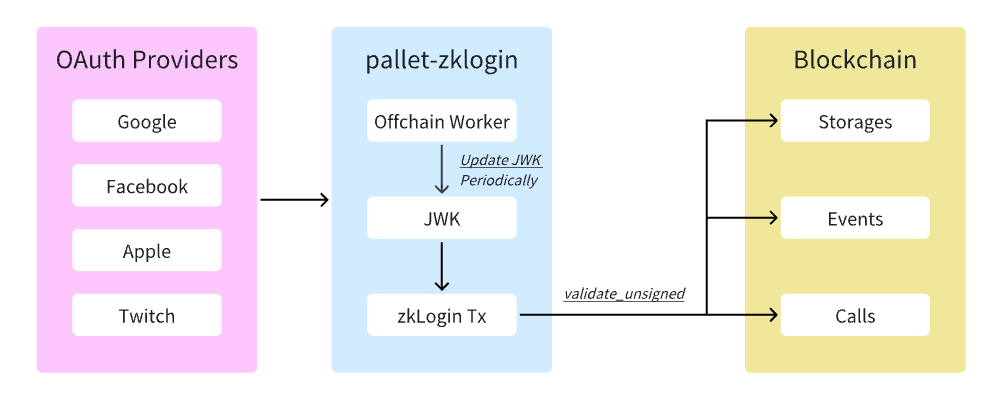
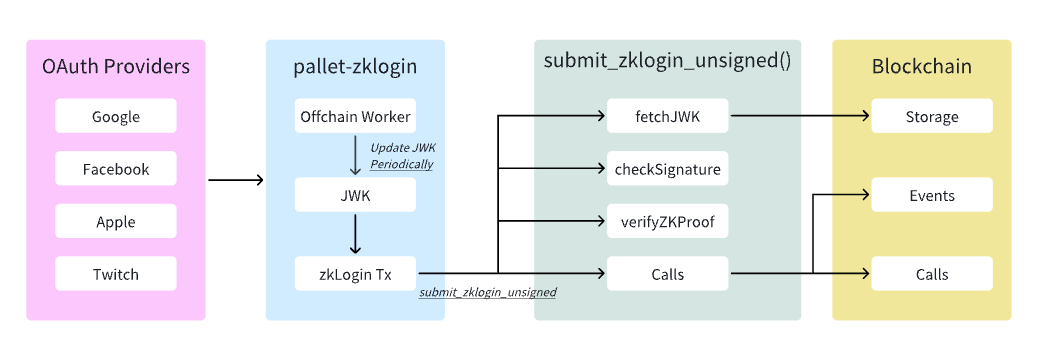
add docs for pallet-zklogin & primitive

diff --git a/kzero-primitive-zklogin.md b/kzero-primitive-zklogin.md
@@ -1,0 +1,217 @@
+# Primitive ZkLogin: Robust, Secure & Efficient Foundation
+
+## Overview
+
+The `primitive/zklogin` module is a core cryptographic primitive that enables zero-knowledge login functionality in the zkLogin process. It provides the foundational infrastructure for secure, privacy-preserving authentication using zero-knowledge proofs and JSON Web Keys (JWKs).
+
+## Core Components
+
+### 1. ZkLogin Material (`ZkMaterial`)
+
+The `ZkMaterial` is the main data structure that encapsulates all necessary information for zkLogin verification:
+
+```rust
+pub struct ZkMaterialV1<Moment> {
+    provider: JwkProvider,        // OAuth provider (Google, GitHub, etc.)
+    kid: Kid,                     // Key ID for JWK lookup
+    inputs: ZkLoginInputs,        // Zero-knowledge proof inputs
+    ephkey_expire_at: Moment,     // Ephemeral key expiration time
+}
+```
+
+**Key Features:**
+- **Versioned Structure**: Supports multiple versions for backward compatibility
+- **Provider Agnostic**: Works with multiple OAuth providers
+- **Time-based Security**: Includes ephemeral key expiration
+- **Proof Integration**: Contains all ZK proof verification data
+
+### 2. JWK Provider System
+
+The module supports multiple OAuth providers through a unified interface:
+
+```rust
+pub enum JwkProvider {
+    Google,    // accounts.google.com
+    Twitch,    // id.twitch.tv
+    Facebook,  // www.facebook.com
+    Kakao,     // kauth.kakao.com
+    Apple,     // appleid.apple.com
+    Slack,     // slack.com
+    Github,    // token.actions.githubusercontent.com
+}
+```
+
+### 3. Zero-Knowledge Proof System
+
+The ZK proof system uses Groth16 protocol with BN254 curve:
+
+```rust
+pub struct ZkLoginProof {
+    a: CircomG1,    // G1 group element A
+    b: CircomG2,    // G2 group element B  
+    c: CircomG1,    // G1 group element C
+}
+```
+
+
+### 4. Poseidon Hash Function
+
+The module implements Poseidon hash for efficient zero-knowledge proof generation:
+
+```rust
+pub fn poseidon_zk_login(inputs: Vec<Fr>) -> Result<Bn254Fr, ZkAuthError>
+```
+
+## Main Methods and Logic
+
+### 1. ZK Login Verification (`verify_zk_login`)
+
+```rust
+pub fn verify_zk_login(
+    &self,
+    eph_pubkey: EphPubKey,
+    address_seed: &AccountId32,
+    jwk: &Jwk,
+) -> ZkAuthResult<()>
+```
+
+**Verification Flow:**
+
+![fn-verify_zk_login](./assets/verify_zk_login.png)
+
+
+**Steps:**
+1. **JWK Modulus Extraction**: Extract the `n` parameter from the JWK
+2. **Hash Calculation**: Compute Poseidon hash of all inputs
+3. **Public Input Preparation**: Prepare inputs for Groth16 verification
+4. **Proof Verification**: Verify the zero-knowledge proof using BN254 curve
+5. **Result Validation**: Return success or detailed error
+
+### 2. JWK Fetching (`fetch_jwks`)
+
+```rust
+pub fn fetch_jwks<E>(
+    &self,
+    fetcher: impl Fn(&str) -> Result<serde_json::Value, E>,
+) -> Result<Vec<Jwk>, JwkProviderErr<E>>
+```
+
+**Method Description**
+
+The fetch_jwks method is responsible for retrieving JSON Web Key Sets (JWKS) from OAuth providers by following the OAuth 2.0 discovery protocol.
+
+1. Gets the well-known endpoint URL:
+- Calls self.well_know_link() to obtain the OAuth provider's discovery endpoint URL (e.g., https://accounts.google.com/.well-known/openid_configuration)
+2. Fetches the well-known document:
+- Uses the provided `fetcher` function to make an HTTP request to the well-known endpoint
+- The fetcher parameter allows for flexible HTTP client implementations
+3. Extracts the JWKS URI
+- Parses the JSON response to find the jwks_uri field
+4. Fetches the actual JWKS:
+- Makes a second HTTP request to the jwks_uri endpoint (e.g., https://www.googleapis.com/oauth2/v3/certs)
+- Retrieves the JSON response containing the actual public keys
+5. Parses and returns the JWKS: 
+- Extracts the keys array from the response
+- Deserializes the JSON into a Vec<Jwk> (vector of JSON Web Keys)
+- Returns the actual JWK objects,
+6. Error handling:
+- Returns `JwkProviderErr::Fetch` if any HTTP request fails
+- Returns `JwkProviderErr::NotFoundJwkUri` if the jwks_uri field is missing
+- Returns `JwkProviderErr::NotFoundJwks` if the keys field is missing
+- Returns `JwkProviderErr::InvalidJson` if the response format is unexpected
+- Returns `JwkProviderErr::InvalidJwks` if JWK parsing fails
+
+### 3. Input Hash Calculation (`calculate_all_inputs_hash`)
+
+```rust
+pub fn calculate_all_inputs_hash(
+    &self,
+    address_seed: U256,
+    eph_pk_bytes: &EphPubKey,
+    modulus: &[u8],
+    max_epoch: u64,
+) -> Result<Bn254Fr, ZkAuthError>
+```
+
+![poseidon_hash](./assets/poseidon_hash.png)
+
+
+## Testing Strategy
+
+### 1. Affine Point Validation Tests
+
+Tests ensure that all cryptographic points are valid on the BN254 curve:
+
+```rust
+#[test]
+fn test_valid_affine_should_be_on_curve() {...}
+fn test_invalid_affine_should_not_be_on_curve() {...}
+fn test_invalid_affine_type_should_be_rejected() {...}
+```
+
+**Test Cases:**
+- ✅ Valid points on curve
+- ✅ Invalid points should be rejected
+- ✅ Invalid type values should be rejected
+
+### 2. Poseidon Hash Tests
+
+Comprehensive testing of the Poseidon hash function:
+
+```rust
+#[test]
+fn test_to_poseidon_hash() {...}
+```
+
+**Test Cases:**
+- ✅ Empty input validation
+- ✅ Single element hashing
+- ✅ Multiple element hashing (1-32 elements)
+- ✅ Edge case handling
+
+### 3. Trait Implementation Tests
+
+Tests for core trait implementations:
+
+```rust
+#[test]
+fn test_replace_sender() {
+    // Test signed extrinsic sender replacement
+    // Test unsigned extrinsic handling
+}
+
+#[test]
+fn test_try_into_eph_pubkey() {
+    // Test AccountId32 conversion
+    // Test MultiAddress conversions
+    // Test invalid address types
+}
+```
+
+### 4. ZK Login Integration Tests
+
+Test the main workflow of the zkLogin verification:
+
+```rust
+#[test]
+fn verify_zklogin() {
+    // Test successful verification
+    // Test with valid JWK and proof
+}
+
+#[test]
+fn zk_login_should_fail_when_jwk_not_match() {
+    // Test JWK mismatch scenarios
+}
+
+#[test]
+fn zk_login_should_fail_when_eph_pubkey_not_match() {
+    // Test ephemeral key mismatch
+}
+```
+
+## Conclusion
+
+The `primitive/zklogin` module provides a robust, secure, and efficient foundation for zero-knowledge login functionality in KZero. Its comprehensive testing strategy, security considerations, and performance optimizations make it suitable for production use in privacy-preserving blockchain applications.
+
+The modular design allows for easy integration with various OAuth providers while maintaining strong cryptographic guarantees through zero-knowledge proofs. The extensive test coverage ensures reliability and correctness across different scenarios and edge cases. 

diff --git a/kzero-pallet-zklogin.md b/kzero-pallet-zklogin.md
@@ -133,9 +133,6 @@ pub fn submit_zklogin_unsigned(
 ) -> DispatchResultWithPostInfo
 ```
 
-**Workflow**:
-![submit_zklogin_unsigned](./assets/submit_zklogin_unsigned.png)
-
 
 ### 3. `submit_jwks_unsigned`
 **Purpose**: Updates JWK (JSON Web Key) sets from OAuth providers via offchain worker
@@ -238,7 +235,7 @@ Supported providers and their JWK endpoints:
 
 **What it tests**:
 - Test externalities are properly set up
-- ZkLogin address has expected initial balance (1000)
+- ZkLogin address has expected initial balance
 - Storage items are initialized with default values
 - Pallet can be accessed and queried
 
@@ -255,7 +252,7 @@ Supported providers and their JWK endpoints:
 **Test Scope**: ZK proof verification, JWK validation, transaction validity
 
 **What it tests**:
-- ZK proof generation and validation
+- ZK proof validation
 - JWK retrieval from storage
 - Ephemeral key signature verification
 - Transaction source validation
